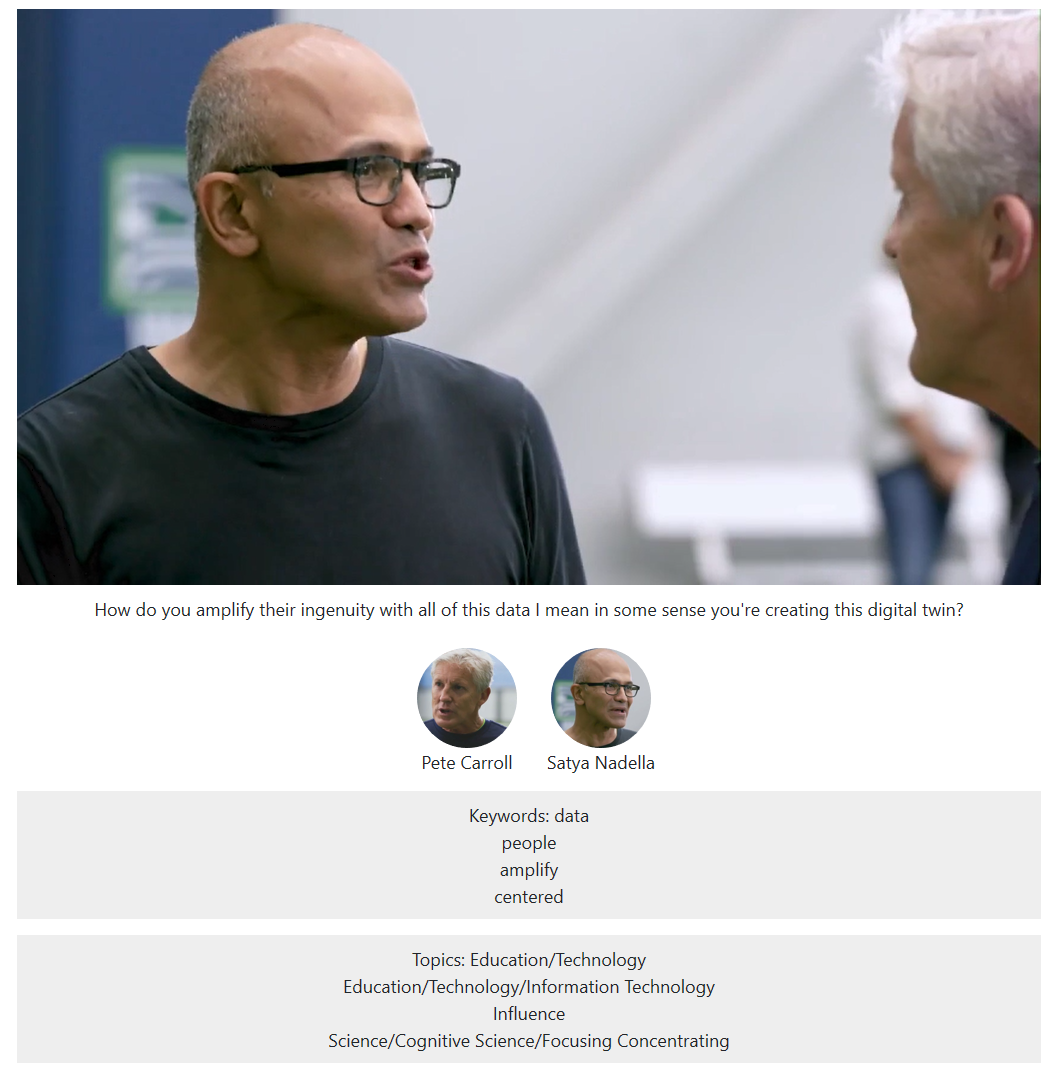
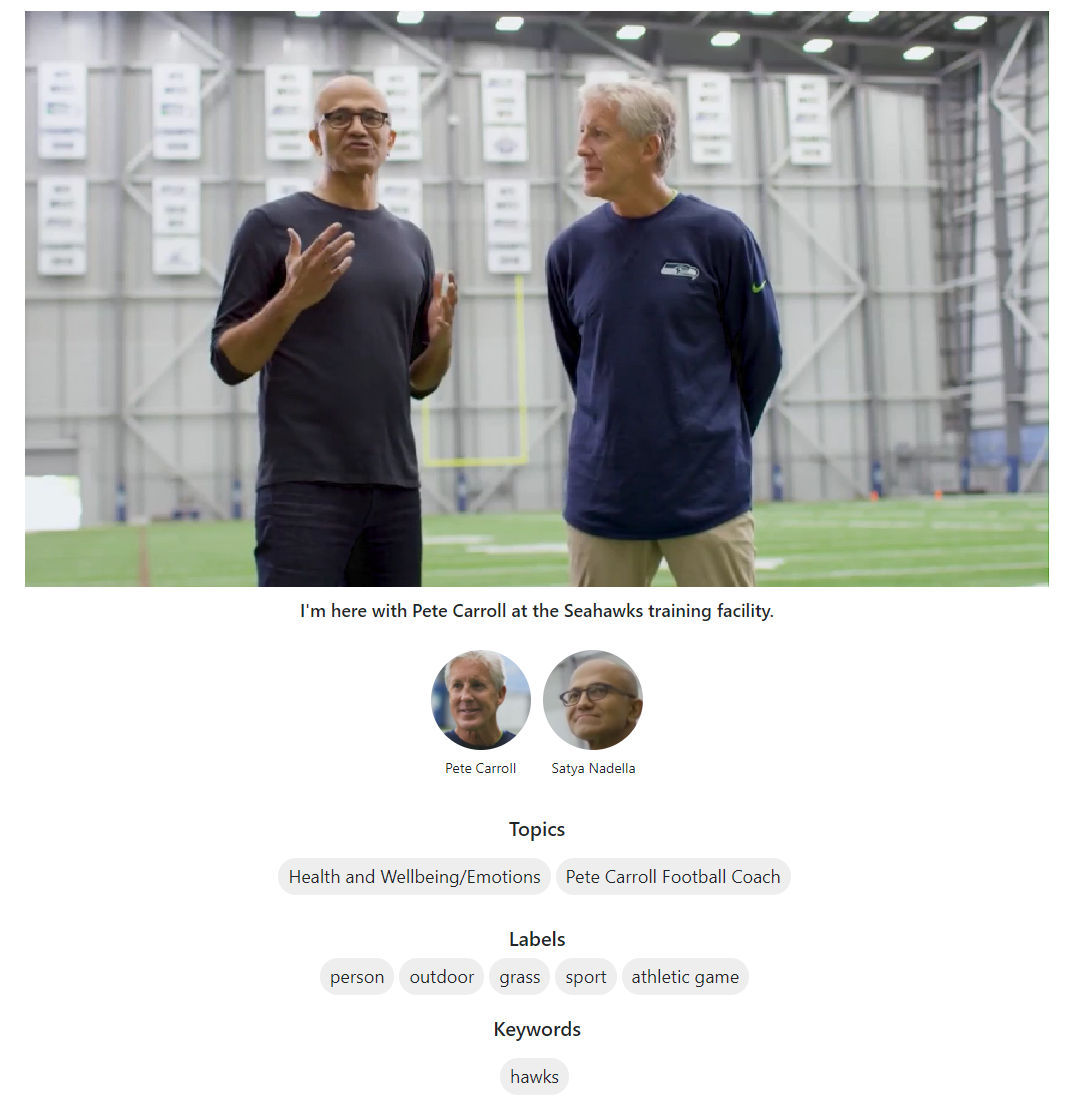
Update to screen capture and tuning

diff --git a/media-functions-for-logic-app/LiveStreamAnalysisPlayer.html b/media-functions-for-logic-app/LiveStreamAnalysisPlayer.html
@@ -46,8 +46,18 @@
         </video>
         <p id="subtitlesArea"></p>
         <p id="facesArea"></p>
-        <p id="keywordsArea"></p>
-        <p id="topicsArea"></p>
+        <p id="topicsArea">
+            <H5>Topics</H5>
+            <div id="topicsContent"></div>
+        </p>
+        <p id="labelsArea">
+            <H5>Labels</H5>
+            <div id="labelsContent"></div>
+        </p>
+        <p id="keywordsArea">
+            <H5>Keywords</H5>
+            <div id="keywordsContent"></div>
+        </p>
     </div>
     <script>
         var videoindexerregion = "northeurope";
@@ -96,6 +106,7 @@
             subtitle = "";
             keywordsArray = [];
             topicsArray = [];
+            labelsArray = [];
             facesArray = [];
             endSecond = 0;
 
@@ -124,7 +135,13 @@
                         };
                     }
                 }
-                keywordsArea.innerText = "Keywords: " + keywordsArray.toString().split(',').join("\n");
+                var keywordsContent = document.querySelector("#keywordsContent");
+                var keywordsHTML = "";
+                for (let index = 0; index < keywordsArray.length; index++) {
+                    keywordsHTML += `<span class="capsule">${keywordsArray[index]}</span>`;
+                    
+                }
+                keywordsContent.innerHTML =  keywordsHTML;
             }
 
             // Topics
@@ -139,11 +156,40 @@
                         };
                     }
                 }
-                topicsArea.innerText = "Topics: " + topicsArray.toString().split(',').join("\n");
+                var topicsContent = document.querySelector("#topicsContent");
+                var topicsHTML = "";
+                for (let index = 0; index < topicsArray.length; index++) {
+                    topicsHTML += `<span class="capsule">${topicsArray[index]}</span>`;
+                    
+                }
+                topicsContent.innerHTML =  topicsHTML;
+            }
+
+            // Labels
+            labels = analytics.insights[0].insights.labels;
+            if (typeof labels != 'undefined') {
+                for (var i = 0; i < labels.length; i++) {
+                    for (var j = 0; j < labels[i].instances.length; j++) {
+                        startSeconds = (labels[i].instances[j].adjustedStart).toSeconds();
+                        endSeconds = (labels[i].instances[j].adjustedEnd).toSeconds();
+                        if (startSeconds <= currentTotalSeconds && endSeconds >= currentTotalSeconds) {
+                            labelsArray.push(labels[i].name);
+                        };
+                    }
+                }
+                var labelsContent = document.querySelector("#labelsContent");
+                var labelsHTML = "";
+                for (let index = 0; index < labelsArray.length; index++) {
+                    labelsHTML += `<span class="capsule">${labelsArray[index]}</span>`;
+                    
+                }
+                labelsContent.innerHTML =  labelsHTML;
             }
 
             // Faces
             faces = analytics.insights[0].insights.faces;
+            var facesLinesHTML = ``;
+            var facesIds = [];
             if (typeof faces != 'undefined') {
                 // Get each individual face
                 for (var i = 0; i < faces.length; i++) {
@@ -151,12 +197,22 @@
                         startSeconds = (faces[i].instances[j].adjustedStart).toSeconds();
                         endSeconds = (faces[i].instances[j].adjustedEnd).toSeconds();
                         if (startSeconds <= currentTotalSeconds && endSeconds >= currentTotalSeconds) {
-                            var url = "<img src='https://api.videoindexer.ai/" + videoindexerregion + "/Accounts/" + accountId + "/Videos/" + videoId + "/Thumbnails/" + faces[i].thumbnails[0].id + "' height=100 /><br />" + faces[i].name + "||";
-                            facesArray.push(url);
+                            var source = `https://api.videoindexer.ai/${videoindexerregion}/Accounts/${accountId}/Videos/${videoId}/Thumbnails/${faces[i].thumbnails[0].id}`;
+                            var name = faces[i].name;
+                            if(facesIds.indexOf(faces[i].id)===-1) {
+                                facesIds.push(faces[i].id);
+                                facesLinesHTML += `
+                                    <li class="list-inline-item">
+                                        <div class="image-facevi" style="background-size:cover;background:url(${source})no-repeat;"></div>
+                                        <div class="face-name">${name}</div>
+                                    </li>
+                                    `;
+                            }
                         };
                     }
                 }
-                facesArea.innerHTML = "<ul class='list-inline'><li class='list-inline-item'>" + facesArray.toString().split("||").join("</li><li class='list-inline-item'>") + "</li></ul>";
+
+                facesArea.innerHTML = `<ul class="list-inline">${facesLinesHTML}</ul>`;
             }
 
             // Reload analytics?

diff --git a/media-functions-for-logic-app/vistyle.css b/media-functions-for-logic-app/vistyle.css
@@ -121,7 +121,15 @@
 .content {
   text-align: center;
 }
-
+.image-facevi {
+  background-position:center!important;
+  width:100px;
+  height:100px;
+  display: inline-block;
+  background-size: cover!important;
+  background-color: grey;
+  border-radius:50%;
+}
 
 html, body {
   margin: 0;
@@ -137,6 +145,9 @@ body h1 {
   font-family: 'Segoe UI', Tahoma, Geneva, Verdana, sans-serif;
 }
 
+#facesArea {
+  min-height: 150px;
+}
 #facesArea img {
   border-radius: 50%;
   width: 100px;
@@ -148,7 +159,25 @@ body h1 {
   padding: 10px;
 }
 
-p#keywordsArea,#topicsArea {
-  background: #eee;
+#keywordsContent,#topicsContent {
   padding: 10px;
+}
+
+#keywordsContent span.capsule,
+#topicsContent span.capsule,
+#labelsContent span.capsule {
+  padding: 5px 10px;
+  background: #eeeeee;
+  border-radius: 25px;
+  margin-right: 5px;
+  margin-bottom: 5px;
+  display: inline-block;
+}
+
+ul .list-inline-item {
+  display: inline-block;
+}
+
+.face-name {
+  font-size: 14px;
 }
